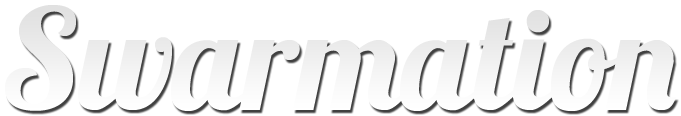
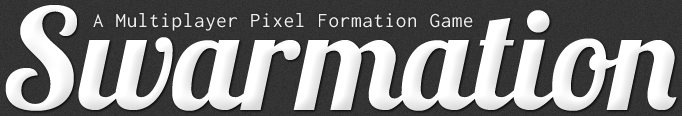
Restyled the header and the right sidebar score box. Added a leaderboard with DUMMY DATA

diff --git a/public/stylesheets/screen.css b/public/stylesheets/screen.css
@@ -101,56 +101,56 @@ body #container {
 }
 /* line 15, ../src/screen.sass */
 body #header {
-  height: 150px;
+  height: 160px;
   font-weight: bold;
   color: #eeeeee;
   text-align: center;
   text-shadow: black 2px 2px 2px;
-  background: url(../images/swarmation.png) 150px 20px no-repeat;
+  background: url(../images/swarmation.png) center 25px no-repeat;
   text-indent: -9999px;
   overflow: hidden;
 }
 /* line 24, ../src/screen.sass */
-body #header, body #footer {
+body #header, body #footer, body #content {
   display: inline;
   float: left;
   margin-right: 10px;
   width: 990px;
 }
 /* line 139, ../../../../../var/lib/gems/1.8/gems/compass-0.10.4/frameworks/blueprint/stylesheets/blueprint/_grid.scss */
-* html body #header, * html body #footer {
+* html body #header, * html body #footer, * html body #content {
   overflow-x: hidden;
 }
 /* line 26, ../src/screen.sass */
 body #info {
+  color: white;
   font-family: Inconsolata;
   text-align: center;
-  color: #eeeeee;
-  margin-bottom: 15px;
-  background: #444444 url(../images/bg-notice.png);
-  border: 3px solid #666666;
-  -moz-border-radius: 4px;
-  -webkit-border-radius: 4px;
-  -o-border-radius: 4px;
-  -ms-border-radius: 4px;
-  -khtml-border-radius: 4px;
-  border-radius: 4px;
+  border: 1px solid #666666;
   padding: 10px 12px;
+  -moz-box-shadow: #888888 0px 0px 2px 0;
+  -webkit-box-shadow: #888888 0px 0px 2px 0;
+  -o-box-shadow: #888888 0px 0px 2px 0;
+  box-shadow: #888888 0px 0px 2px 0;
+  border: 1px solid #222222;
+  background: #444444 url(../images/bg-notice.png);
+  margin: 2px;
+  margin-bottom: 16px;
 }
-/* line 35, ../src/screen.sass */
+/* line 37, ../src/screen.sass */
 body #info #countdown {
   font-size: 60px;
 }
-/* line 37, ../src/screen.sass */
+/* line 39, ../src/screen.sass */
 body #info #formation {
   font-size: 20px;
   padding-top: 80px;
 }
-/* line 40, ../src/screen.sass */
+/* line 42, ../src/screen.sass */
 body #info #score {
   font-size: 30px;
 }
-/* line 42, ../src/screen.sass */
+/* line 44, ../src/screen.sass */
 body #sidebar {
   display: inline;
   float: left;
@@ -165,7 +165,7 @@ body #sidebar {
 * html body #sidebar {
   overflow-x: hidden;
 }
-/* line 48, ../src/screen.sass */
+/* line 50, ../src/screen.sass */
 body #sidebar .sidebar-notice {
   -moz-box-shadow: #1a1a1a 0px 0px 2px 0;
   -webkit-box-shadow: #1a1a1a 0px 0px 2px 0;
@@ -177,50 +177,39 @@ body #sidebar .sidebar-notice {
   margin: 0px 1px 12px 0;
   color: white;
 }
-/* line 55, ../src/screen.sass */
+/* line 57, ../src/screen.sass */
 body #sidebar #arrow-image {
   position: relative;
   top: 2px;
 }
-/* line 58, ../src/screen.sass */
+/* line 60, ../src/screen.sass */
 body #sidebar .placeholder {
   color: #888888;
   background-color: #eeeeee;
 }
-/* line 61, ../src/screen.sass */
+/* line 63, ../src/screen.sass */
 body #sidebar #username {
   width: 165px;
   border-width: 0px;
   padding: 2px 5px;
   font-size: 13px;
 }
-/* line 66, ../src/screen.sass */
+/* line 68, ../src/screen.sass */
 body #sidebar .username-box {
   padding-top: 5px;
   padding-bottom: 5px;
 }
-/* line 69, ../src/screen.sass */
-body #content {
-  display: inline;
-  float: left;
-  margin-right: 10px;
-  width: 990px;
-}
-/* line 139, ../../../../../var/lib/gems/1.8/gems/compass-0.10.4/frameworks/blueprint/stylesheets/blueprint/_grid.scss */
-* html body #content {
-  overflow-x: hidden;
-}
-/* line 71, ../src/screen.sass */
+/* line 72, ../src/screen.sass */
 body #content #about {
   padding: 5px 15px;
   text-align: right;
   color: #888888;
 }
-/* line 75, ../src/screen.sass */
+/* line 76, ../src/screen.sass */
 body #content #board, body #content #play {
   margin: 10px 0 8px 10px;
 }
-/* line 77, ../src/screen.sass */
+/* line 78, ../src/screen.sass */
 body #content #board-container {
   width: 981px;
   background-color: #eeeeee;
@@ -230,11 +219,11 @@ body #content #board-container {
   -o-box-shadow: black 0px 0px 6px 0;
   box-shadow: black 0px 0px 6px 0;
 }
-/* line 82, ../src/screen.sass */
+/* line 83, ../src/screen.sass */
 body #content #board-controls {
   padding: 15px 25px;
 }
-/* line 84, ../src/screen.sass */
+/* line 85, ../src/screen.sass */
 body #content #tooltip {
   -moz-box-shadow: #555555 0px 0px 2px 0;
   -webkit-box-shadow: #555555 0px 0px 2px 0;
@@ -251,7 +240,50 @@ body #content #tooltip {
   padding: 3px 7px 4px 7px;
   position: absolute;
 }
-/* line 91, ../src/screen.sass */
+/* line 92, ../src/screen.sass */
 body #content #tooltip .name {
   font-weight: bold;
+}
+/* line 94, ../src/screen.sass */
+body #footer {
+  color: #eeeeee;
+  padding: 10px 12px;
+}
+/* line 97, ../src/screen.sass */
+body #footer #leaderboard {
+  margin: 0;
+  padding: 0;
+  border: 0;
+  outline: 0;
+  overflow: hidden;
+  *zoom: 1;
+  line-height: 1.5em;
+}
+/* line 51, ../../../../../var/lib/gems/1.8/gems/compass-0.10.4/frameworks/compass/stylesheets/compass/utilities/lists/_horizontal-list.scss */
+body #footer #leaderboard li {
+  list-style-image: none;
+  list-style-type: none;
+  margin-left: 0px;
+  white-space: nowrap;
+  display: inline;
+  float: left;
+  padding-left: 4px;
+  padding-right: 4px;
+}
+/* line 43, ../../../../../var/lib/gems/1.8/gems/compass-0.10.4/frameworks/compass/stylesheets/compass/utilities/lists/_horizontal-list.scss */
+body #footer #leaderboard li:first-child, body #footer #leaderboard li.first {
+  padding-left: 0px;
+}
+/* line 44, ../../../../../var/lib/gems/1.8/gems/compass-0.10.4/frameworks/compass/stylesheets/compass/utilities/lists/_horizontal-list.scss */
+body #footer #leaderboard li:last-child, body #footer #leaderboard li.last {
+  padding-right: 0px;
+}
+/* line 100, ../src/screen.sass */
+body #footer #leaderboard a {
+  text-decoration: none;
+  padding-right: 6px;
+}
+/* line 103, ../src/screen.sass */
+body #footer #leaderboard a .points {
+  color: #999999;
 }

diff --git a/public/index.html b/public/index.html
@@ -18,7 +18,6 @@
         <div id="board-container">
           <canvas datasrc="/js/fun.js" width="961" height="601" id="play"></canvas>
         </div>
-        <div id="about">Follow us: <a href="http://twitter.com/Swarmation">@Swarmation</a></div>
         <div id="tooltip">
           <h3 class="name"></h3>
           <p><span class="score">0</span> points</p>
@@ -28,14 +27,14 @@
       <div id="sidebar">
         <div id="info">
           <h1 id="countdown">wait</h1>
-          <div id="formation">...</div>
+          <div id="formation">&nbsp;</div>
           <h2 id="score">
-            score:
             <span class="score">0</span>
+	    points
           </h2>
           <h2 id="success">
-            success rate:
-            <span class="success">100</span>%
+	    <span class="success">100</span>%            
+	    success rate            
           </h2>
         </div>
         <div id="notices">
@@ -49,9 +48,24 @@
           </div>
         </div>
       </div>
+      <div id="footer">
+	<div id="leaderboard">
+	  <a href="">Snooker <span class="points">(3000 points)</span></a>
+	  <a href="">Red <span class="points">(2500 points)</span></a>
+	  <a href="">Snooker <span class="points">(3000 points)</span></a>
+	  <a href="">Red <span class="points">(2500 points)</span></a>
+	  <a href="">Snooker <span class="points">(3000 points)</span></a>
+	  <a href="">Red <span class="points">(2500 points)</span></a>
+	  <a href="">Snooker <span class="points">(3000 points)</span></a>
+	  <a href="">Red <span class="points">(2500 points)</span></a>
+	  <a href="">Snooker <span class="points">(3000 points)</span></a>
+	  <a href="">Red <span class="points">(2500 points)</span></a>
+	  <a href="">Snooker <span class="points">(3000 points)</span></a>
+	  <a href="">Red <span class="points">(2500 points)</span></a>
+	  <a href="">Snooker <span class="points">(3000 points)</span></a>
+	</div>
+      </div>
     </div>
-    <a href="http://nodeknockout.com/teams/saber-tooth-moose-lion" target="nko" title="Help me win Node.js KO!">
-    <img style="position: fixed; top: 5px; right: 5px; border: 0px;" src="http://nodeknockout.com/images/voteko.png" alt="Help me win Node.js KO!" /></a>
 
     <script src="/js/jquery-1.4.2.min.js"></script>
     <script src="/js/jquery.hotkeys.js"></script>

diff --git a/public/src/screen.sass b/public/src/screen.sass
@@ -13,25 +13,27 @@ body
   #container
     +container
   #header
-    :height 150px
+    :height 160px
     :font-weight bold
     :color #eee
     :text-align center
     +text-shadow(#000,2px,2px,2px)
-    :background url(../images/swarmation.png) 150px 20px no-repeat
+    :background url(../images/swarmation.png) center 25px no-repeat
     :text-indent -9999px
     :overflow hidden
-  #header, #footer
+  #header, #footer, #content
     +column(25)
   #info
+    :color #fff
     :font-family Inconsolata
     :text-align center
-    :color #eee
-    :margin-bottom 15px
-    :background #444 url(../images/bg-notice.png)
-    :border 3px solid #666
-    +border-radius(4px)
+    :border 1px solid #666
     :padding 10px 12px
+    +box-shadow(#888,0px,0px,2px)
+    :border 1px solid #222
+    :background #444 url(../images/bg-notice.png)
+    :margin 2px
+    :margin-bottom 16px
     #countdown
       :font-size 60px
     #formation
@@ -67,7 +69,6 @@ body
       :padding-top 5px
       :padding-bottom 5px
   #content
-    +column(25)
     #about
       :padding 5px 15px
       :text-align right
@@ -90,3 +91,14 @@ body
       :position absolute
       .name
         :font-weight bold
+  #footer
+    :color #eee
+    :padding 10px 12px
+    #leaderboard
+      +horizontal-list
+      :line-height 1.5em
+      a
+        :text-decoration none 
+        :padding-right 6px
+        .points
+          :color #999
